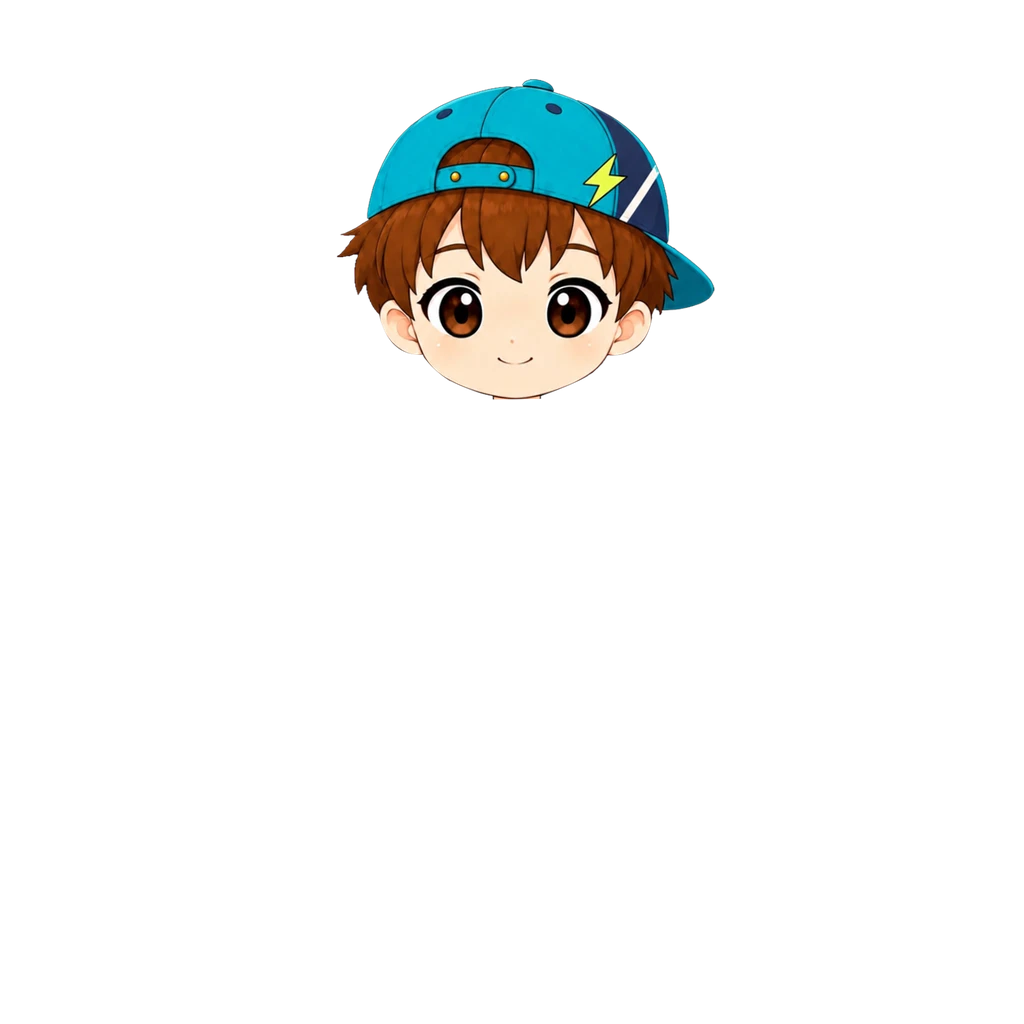
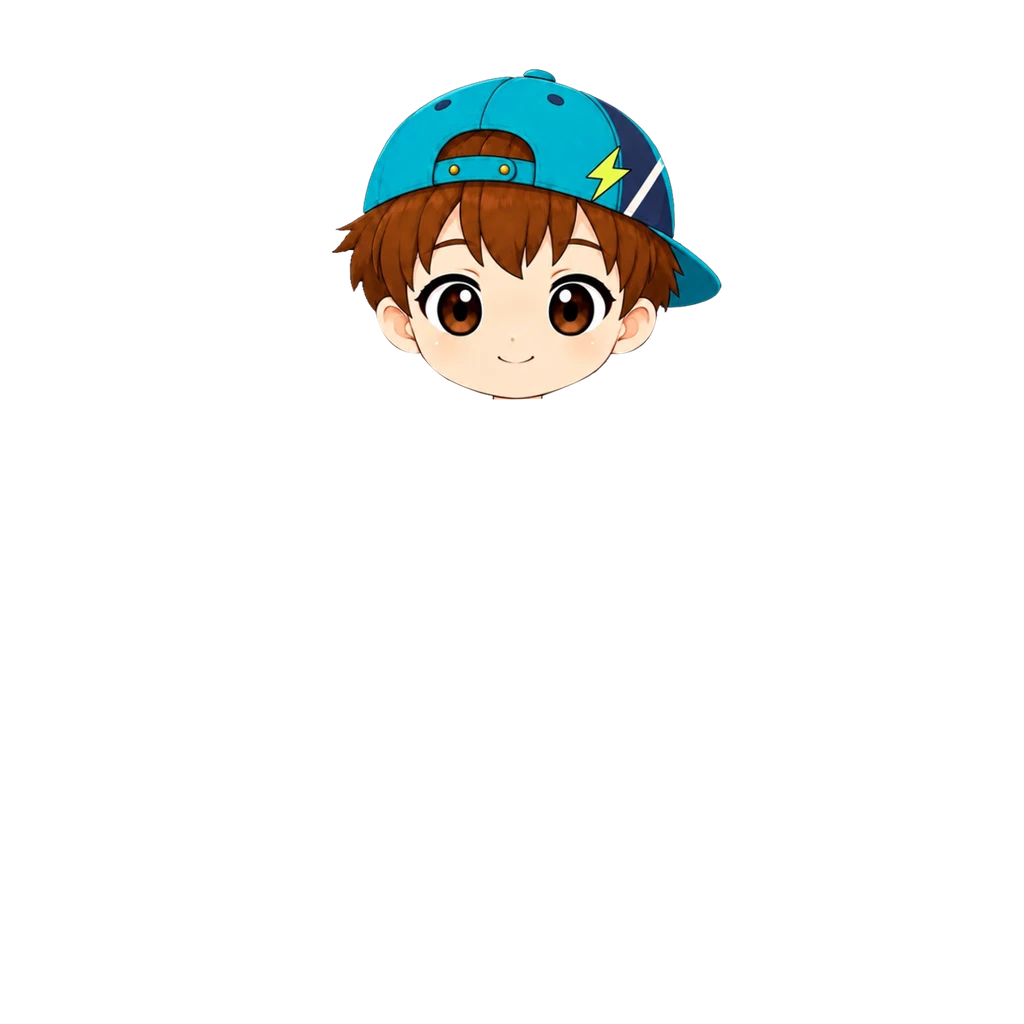
번개 캡모자(남아) 머리 3% 크게 (#862)
턱 아래끝·얼굴 가운데를 고정한 채 배율 0.644→0.6633. img ?v=4.

Claude-Session: https://claude.ai/code/session_018maNuYqDfFyRSe9uKpZhPR

Changed region(s): [[0.3125, 0.0625, 0.7188, 0.375]]

diff --git a/src/data/avatarEquipment.js b/src/data/avatarEquipment.js
@@ -222,8 +222,9 @@ export const AVATAR_CATALOG = [
      사파리 모자와 같은 방식 — hidesHead 로 기본 머리 장을 빼고 이 그림이 머리를 대신한다. 얼굴(눈~입) 템플릿 매칭(일치 0.956)으로
      배율 0.644, 원점 (336,76). 기본 머리 장처럼 y404 아래는 잘랐다. 탑재 상자 (336,76,715,398).
      [2026-10-04] 사용자 조정 — 아래로 1(원점 (336,77)). 탑재 상자 (336,77,715,399). img ?v=2.
-     [2026-10-04] 아래로 1 더(원점 (336,78)). 탑재 상자 (336,78,715,400). img ?v=3. */
-  { id: "hat_cap_boy",    slot: "hat",   label: "번개 캡모자", emoji: "🧢", price:DECOR_PRICE.rare, rarity: "rare", theme: "common", forGender: "boy", hidesHead: true, img: "assets/avatar/hat/lightning-cap-boy.webp?v=3", thumb: "assets/avatar/thumb/hat_cap_boy.webp" },
+     [2026-10-04] 아래로 1 더(원점 (336,78)). 탑재 상자 (336,78,715,400). img ?v=3.
+     [2026-10-04] 머리 3% 크게(배율 0.6633, 턱 아래끝·얼굴 가운데 x516 고정, 원점 (331,68)). 탑재 상자 (331,68,722,400). img ?v=4. */
+  { id: "hat_cap_boy",    slot: "hat",   label: "번개 캡모자", emoji: "🧢", price:DECOR_PRICE.rare, rarity: "rare", theme: "common", forGender: "boy", hidesHead: true, img: "assets/avatar/hat/lightning-cap-boy.webp?v=4", thumb: "assets/avatar/thumb/hat_cap_boy.webp" },
   /* 사파리 옷 — 원화가 블라우스+반바지 한 장이라 상의 슬롯 하나로 넣는다(사용자 확정).
      상의(35)가 하의(30) 위라 하의를 같이 껴도 이 그림이 덮는다. */
   /* [2026-08-20] 남아 원화가 들어와 남녀 공용이 됐다 — 그림이 성별로 갈리는 첫 아이템.

diff --git a/art-src/README.md b/art-src/README.md
@@ -602,4 +602,4 @@ bbox로 여백만 잘라내고 배포본은 높이 480px로 축소했다(전부 
 | thumb-src-shoes_lightning.webp | **상점 목록 그림 남아 번개 운동화 (shoes_lightning, 사용자 원화 2026-10-04)** — 상점 카드에만 보이는 한 짝 아이콘. 338×337 투명 배경, 세로 160px 로 줄여 탑재(thumb ?v=2) | avatar/thumb/shoes_lightning.webp |
 | thumb-src-shoes_sandal.webp | **상점 목록 그림 남아 썸머 샌들 (shoes_sandal, 사용자 원화 2026-10-04)** — 상점 카드에만 보이는 한 짝 아이콘. 355×296 투명 배경, 세로 160px 로 줄여 탑재(thumb ?v=2) | avatar/thumb/shoes_sandal.webp |
 | thumb-src-shoes_fins.webp | **상점 목록 그림 남아 바다 오리발 (shoes_fins, 사용자 원화 2026-10-04)** — 상점 카드에만 보이는 한 짝 아이콘. 374×325 투명 배경, 세로 160px 로 줄여 탑재(thumb ?v=2) | avatar/thumb/shoes_fins.webp |
-| lightning-cap-boy-src.webp | **번개 캡모자 원화 남아 — 모자+얼굴 한 장 (사용자 원화 2026-10-04)** — 589×500 투명 배경, 청록 캡(뒤로 쓴 챙·형광 번개). 사파리 모자처럼 hidesHead 로 기본 머리를 대신한다. 얼굴 템플릿 매칭(일치 0.956)으로 배율 0.644·원점 (336,76), y404 아래 자름. 탑재 상자 (336,76,715,398). **[2026-10-04 조정]** 아래로 1(원점 (336,77)) · img ?v=2. 다시 아래로 1(원점 (336,78)) · img ?v=3. 상점 그림은 원화를 세로 160px 로 | avatar/hat/lightning-cap-boy.webp · thumb/hat_cap_boy.webp |
+| lightning-cap-boy-src.webp | **번개 캡모자 원화 남아 — 모자+얼굴 한 장 (사용자 원화 2026-10-04)** — 589×500 투명 배경, 청록 캡(뒤로 쓴 챙·형광 번개). 사파리 모자처럼 hidesHead 로 기본 머리를 대신한다. 얼굴 템플릿 매칭(일치 0.956)으로 배율 0.644·원점 (336,76), y404 아래 자름. 탑재 상자 (336,76,715,398). **[2026-10-04 조정]** 아래로 1(원점 (336,77)) · img ?v=2. 다시 아래로 1(원점 (336,78)) · img ?v=3. 머리 3% 크게(배율 0.6633, 턱·가운데 고정, 원점 (331,68)) · img ?v=4. 상점 그림은 원화를 세로 160px 로 | avatar/hat/lightning-cap-boy.webp · thumb/hat_cap_boy.webp |
